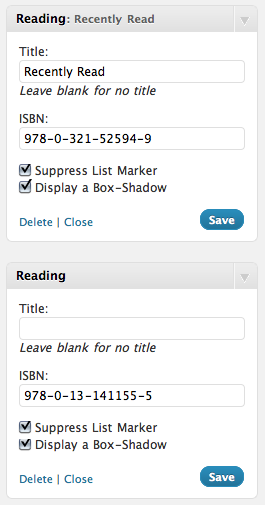
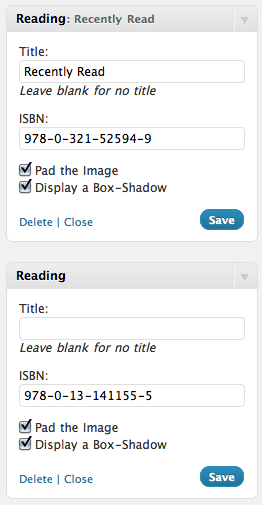
Updated to use "<div>" entries instead of lists
git-svn-id: https://plugins.svn.wordpress.org/currently-reading/trunk@343481 b8457f37-d9ea-0310-8a92-e5e31aec5664

diff --git a/CurrentlyReading.php b/CurrentlyReading.php
@@ -4,7 +4,7 @@
     Plugin URI: http://www.damn.org.za/blog/CurrentlyReading
     Description: Display a Currently Reading widget using an image from (and linking to) the Google Books Website
     Author: Eugéne Roux
-    Version: 3.1
+    Version: 3.3
     Author URI: http://damn.org.za/
  */
 
@@ -45,24 +45,22 @@ class CurrentlyReading extends WP_Widget {
             $myisbn = str_replace($spacechars, "", $instance['isbn']);
 
             print("\n\t<!-- ISBN: " . $instance['isbn'] . " -->\n");
-            if ( $internalcss || $boxshadow ) {
-                print("\t\t<ul style='margin: 1em;");
-                if ( $internalcss ) {
-                    print(" list-style: none;");
-                }
-                print("'>\n");
-            } else {
-                print("\t\t<ul>\n");
+
+            print("\t\t<div");
+            if ( $internalcss ) {
+                print(" style='margin: 1em; padding: 2ex;'");
             }
-            print( "\t\t\t<li>\n");
-            print( "\t\t\t\t<a href='http://books.google.com/books?vid=ISBN$myisbn'>");
-            print( "<img " );
+            print( " class='currentlyreading' id='currenlyreading-ISBN" . $myisbn . "'>\n");
+
+            print( "\t\t\t<a href='http://books.google.com/books?vid=ISBN$myisbn'>");
+            print( "<img class='currentlyreading' id='currenlyreading-ISBN" . $myisbn . "-img' " );
             if ( $boxshadow ) {
-                print("style='-moz-box-shadow: #CCC 5px 5px 5px; -webkit-box-shadow: #CCC 5px 5px 5px; -khtml-box-shadow: #CCC 5px 5px 5px; box-shadow: #CCC 5px 5px 5px;' ");
+                print( "style='-moz-box-shadow: #CCC 5px 5px 5px; -webkit-box-shadow: #CCC 5px 5px 5px; " );
+                print( "-khtml-box-shadow: #CCC 5px 5px 5px; box-shadow: #CCC 5px 5px 5px;' " );
             }
             print( "src='http://books.google.com/books?vid=ISBN$myisbn&printsec=frontcover&img=1&zoom=1' ");
             print( "alt='ISBN: " . $instance['isbn'] . "' title='ISBN: " . $instance['isbn'] . "'/></a>\n");
-            print( "\t\t\t</li>\n\t\t</ul>\n");
+            print( "\t\t</div>\n");
 
             echo $after_widget;
         }
@@ -104,7 +102,7 @@ class CurrentlyReading extends WP_Widget {
         print( "\t<p>\n" );
         print( "\t\t<input class='checkbox' type='checkbox' " . $internalcss );
         print( " id='" . $this->get_field_id("internalcss") . "' name='" . $this->get_field_name("internalcss") . "'/>\n" );
-        print( "\t\t<label for='" . $this->get_field_id("internalcss") . "'>" ); _e( "Suppress List Marker" );
+        print( "\t\t<label for='" . $this->get_field_id("internalcss") . "'>" ); _e( "Pad the Image" );
         print( "\n\t\t<br />\n" );
         print( "\t\t<input class='checkbox' type='checkbox' " . $boxshadow );
         print( " id='" . $this->get_field_id("boxshadow") . "' name='" . $this->get_field_name("boxshadow") . "'/>\n" );
